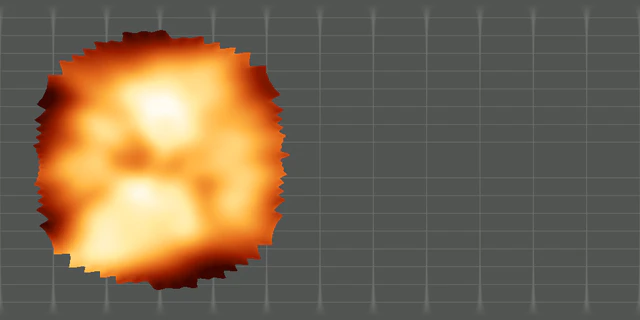
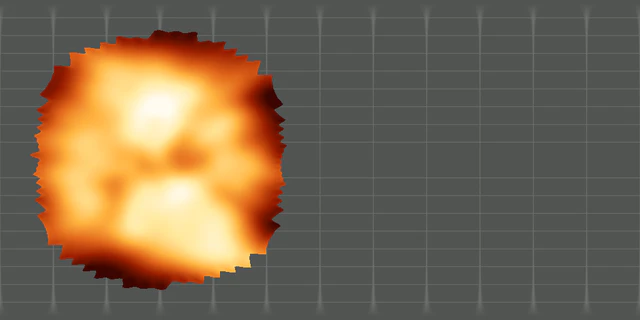
fix(betelgeuse): lay the reconstruction on the sphere like a planet atlas
East longitude now grows with the mesh column, as every planet atlas does, with
body longitude 0 a quarter turn along the mesh where the runtime places the
sub-observer meridian. Measured on Mars and Betelgeuse by yawing the camera and
reading the leaf under the screen centre against the world camera. Sphere, pole
and halo plate now agree with one another; the scene's mirrored sky view stays
recorded as measured. Write mode re-pinned the navigation marker to a path-only
source, which main's tooling expects.

Changed region(s): [[0.0312, 0.0938, 0.4688, 0.9062]]

diff --git a/src/objects/betelgeuse/README.md b/src/objects/betelgeuse/README.md
@@ -30,7 +30,7 @@ Betelgeuse is the first body here that is not in the Solar System and the first 
 
 **The halo is the same reconstruction.** A fifth of the beam-convolved image's flux lies outside the 42.45 mas disc: half of it within one beam of the limb, the rest extended emission out to the edge of the 100 mas field. It is in the data, not a display choice: zeroing the image outside the disc raises the closure-phase reduced chi-squared from 1.2 to 890, and keeping only four beams beyond the limb still leaves it at 12 (`reconstruction.test.mts`). The lens's off-limb plate draws that light on the lens palette and stretch, alpha falling from the stretch's low end to the frame's background, as a stationary sky-plane billboard behind the sphere, the same plate the Sun's route uses for its off-limb context. It is registered to the disc and mirrored and turned to the scene's handedness at the default camera, where the rendered pole sits 40.1 degrees from screen-right (the plate's north 48 degrees clockwise of it); away from that camera the billboard and the sphere part company, as the Sun's do.
 
-**The default camera is 12 degrees off the sub-Earth point.** The camera orbit keeps its pitch at or above the ecliptic plane, and from Betelgeuse the Earth lies below it, so the closest face-on view the orbit reaches is yaw 90 at pitch 2: the sub-camera point measured through the app's own world camera is longitude -12, latitude -10 in the body frame. At that view the pole projects up and to the right of centre, whereas on the sky it lies 48 degrees east of north, up and to the left with east on the left. That handedness of the scene frame is measured here, pinned by the default-view test, and not resolved in this package.
+**The default camera is 12 degrees off the sub-Earth point.** The camera orbit keeps its pitch at or above the ecliptic plane, and from Betelgeuse the Earth lies below it, so the closest face-on view the orbit reaches is yaw 90 at pitch 2: the sub-camera point measured through the app's own world camera is longitude -12, latitude -10 in the body frame. The map is laid on the sphere the way a planet atlas is: east longitude grows with the mesh column, so on screen east runs to the right of the sub-camera meridian, as it does on Mars. Yawing the camera moves the leaf under the screen centre in the same sense on both bodies, and the sub-Earth point lands on the mesh column a quarter turn from the mesh's first column, which fixes the prime offset. At that view the pole projects up and to the right of centre, whereas on the sky it lies 48 degrees east of north, up and to the left with east on the left. The halo plate is mirrored to match the sphere and the pole, so sphere, pole and plate agree with one another and all three are the sky view mirrored. That handedness of the scene frame is measured here, pinned by the default-view test, and not resolved in this package.
 
 **Which side is brighter is weakly constrained.** Negating every closure phase gives an image that fits equally well (reduced chi-squared 1.30 against 1.28) and correlates best with the original rotated by 180 degrees. The lens therefore shows the reconstruction as made, and this caveat.
 
